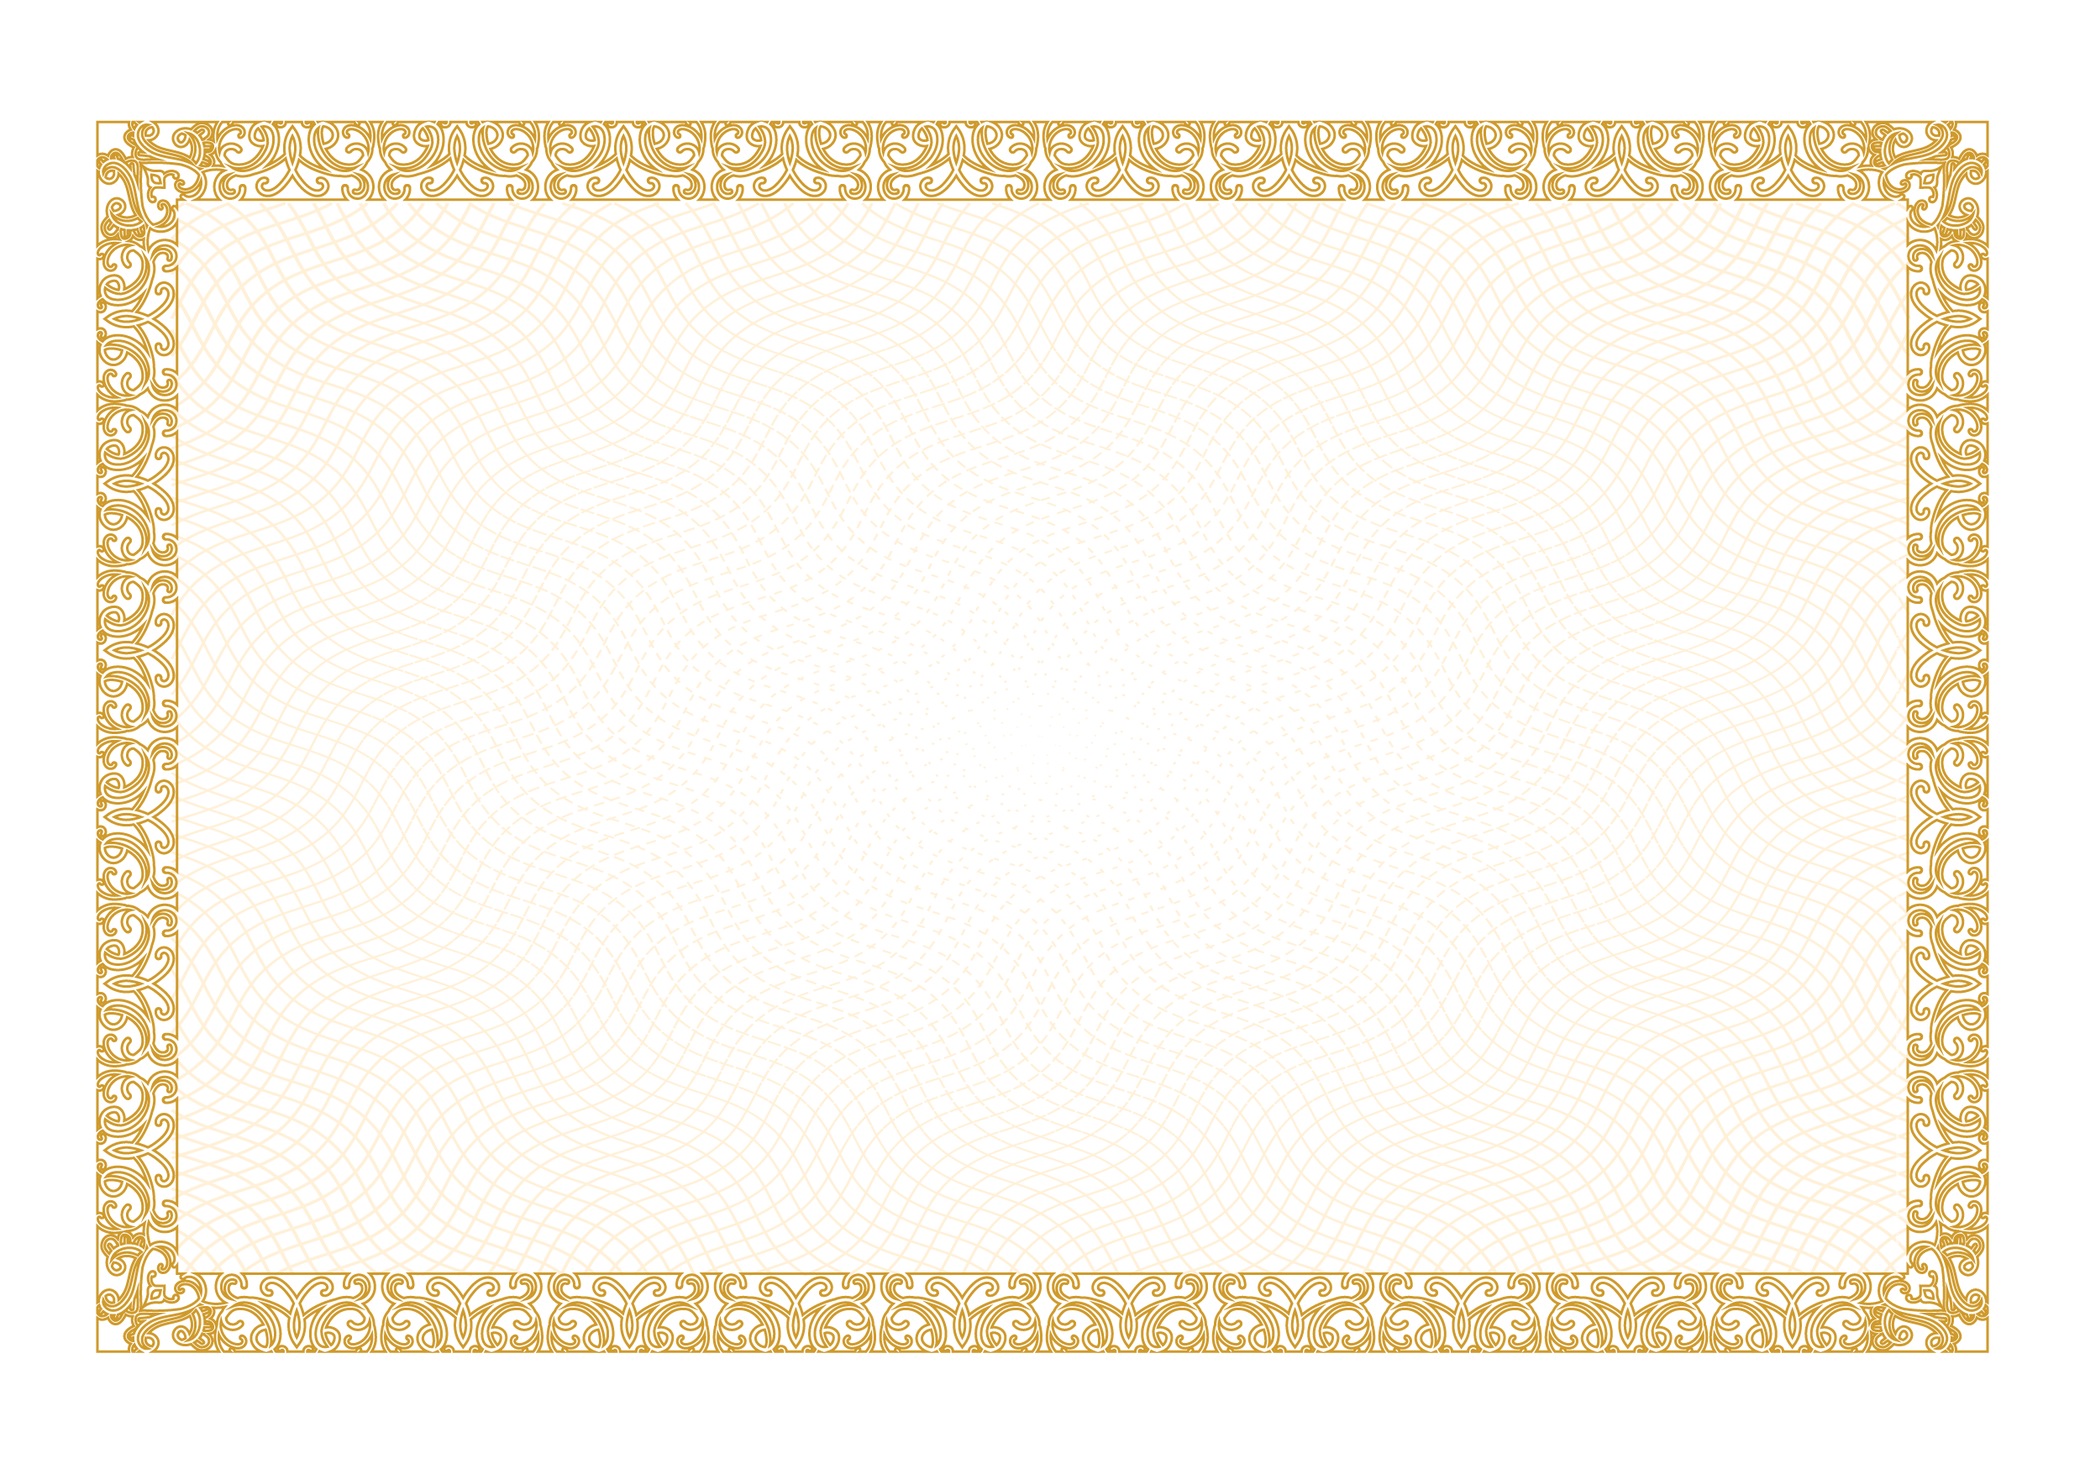
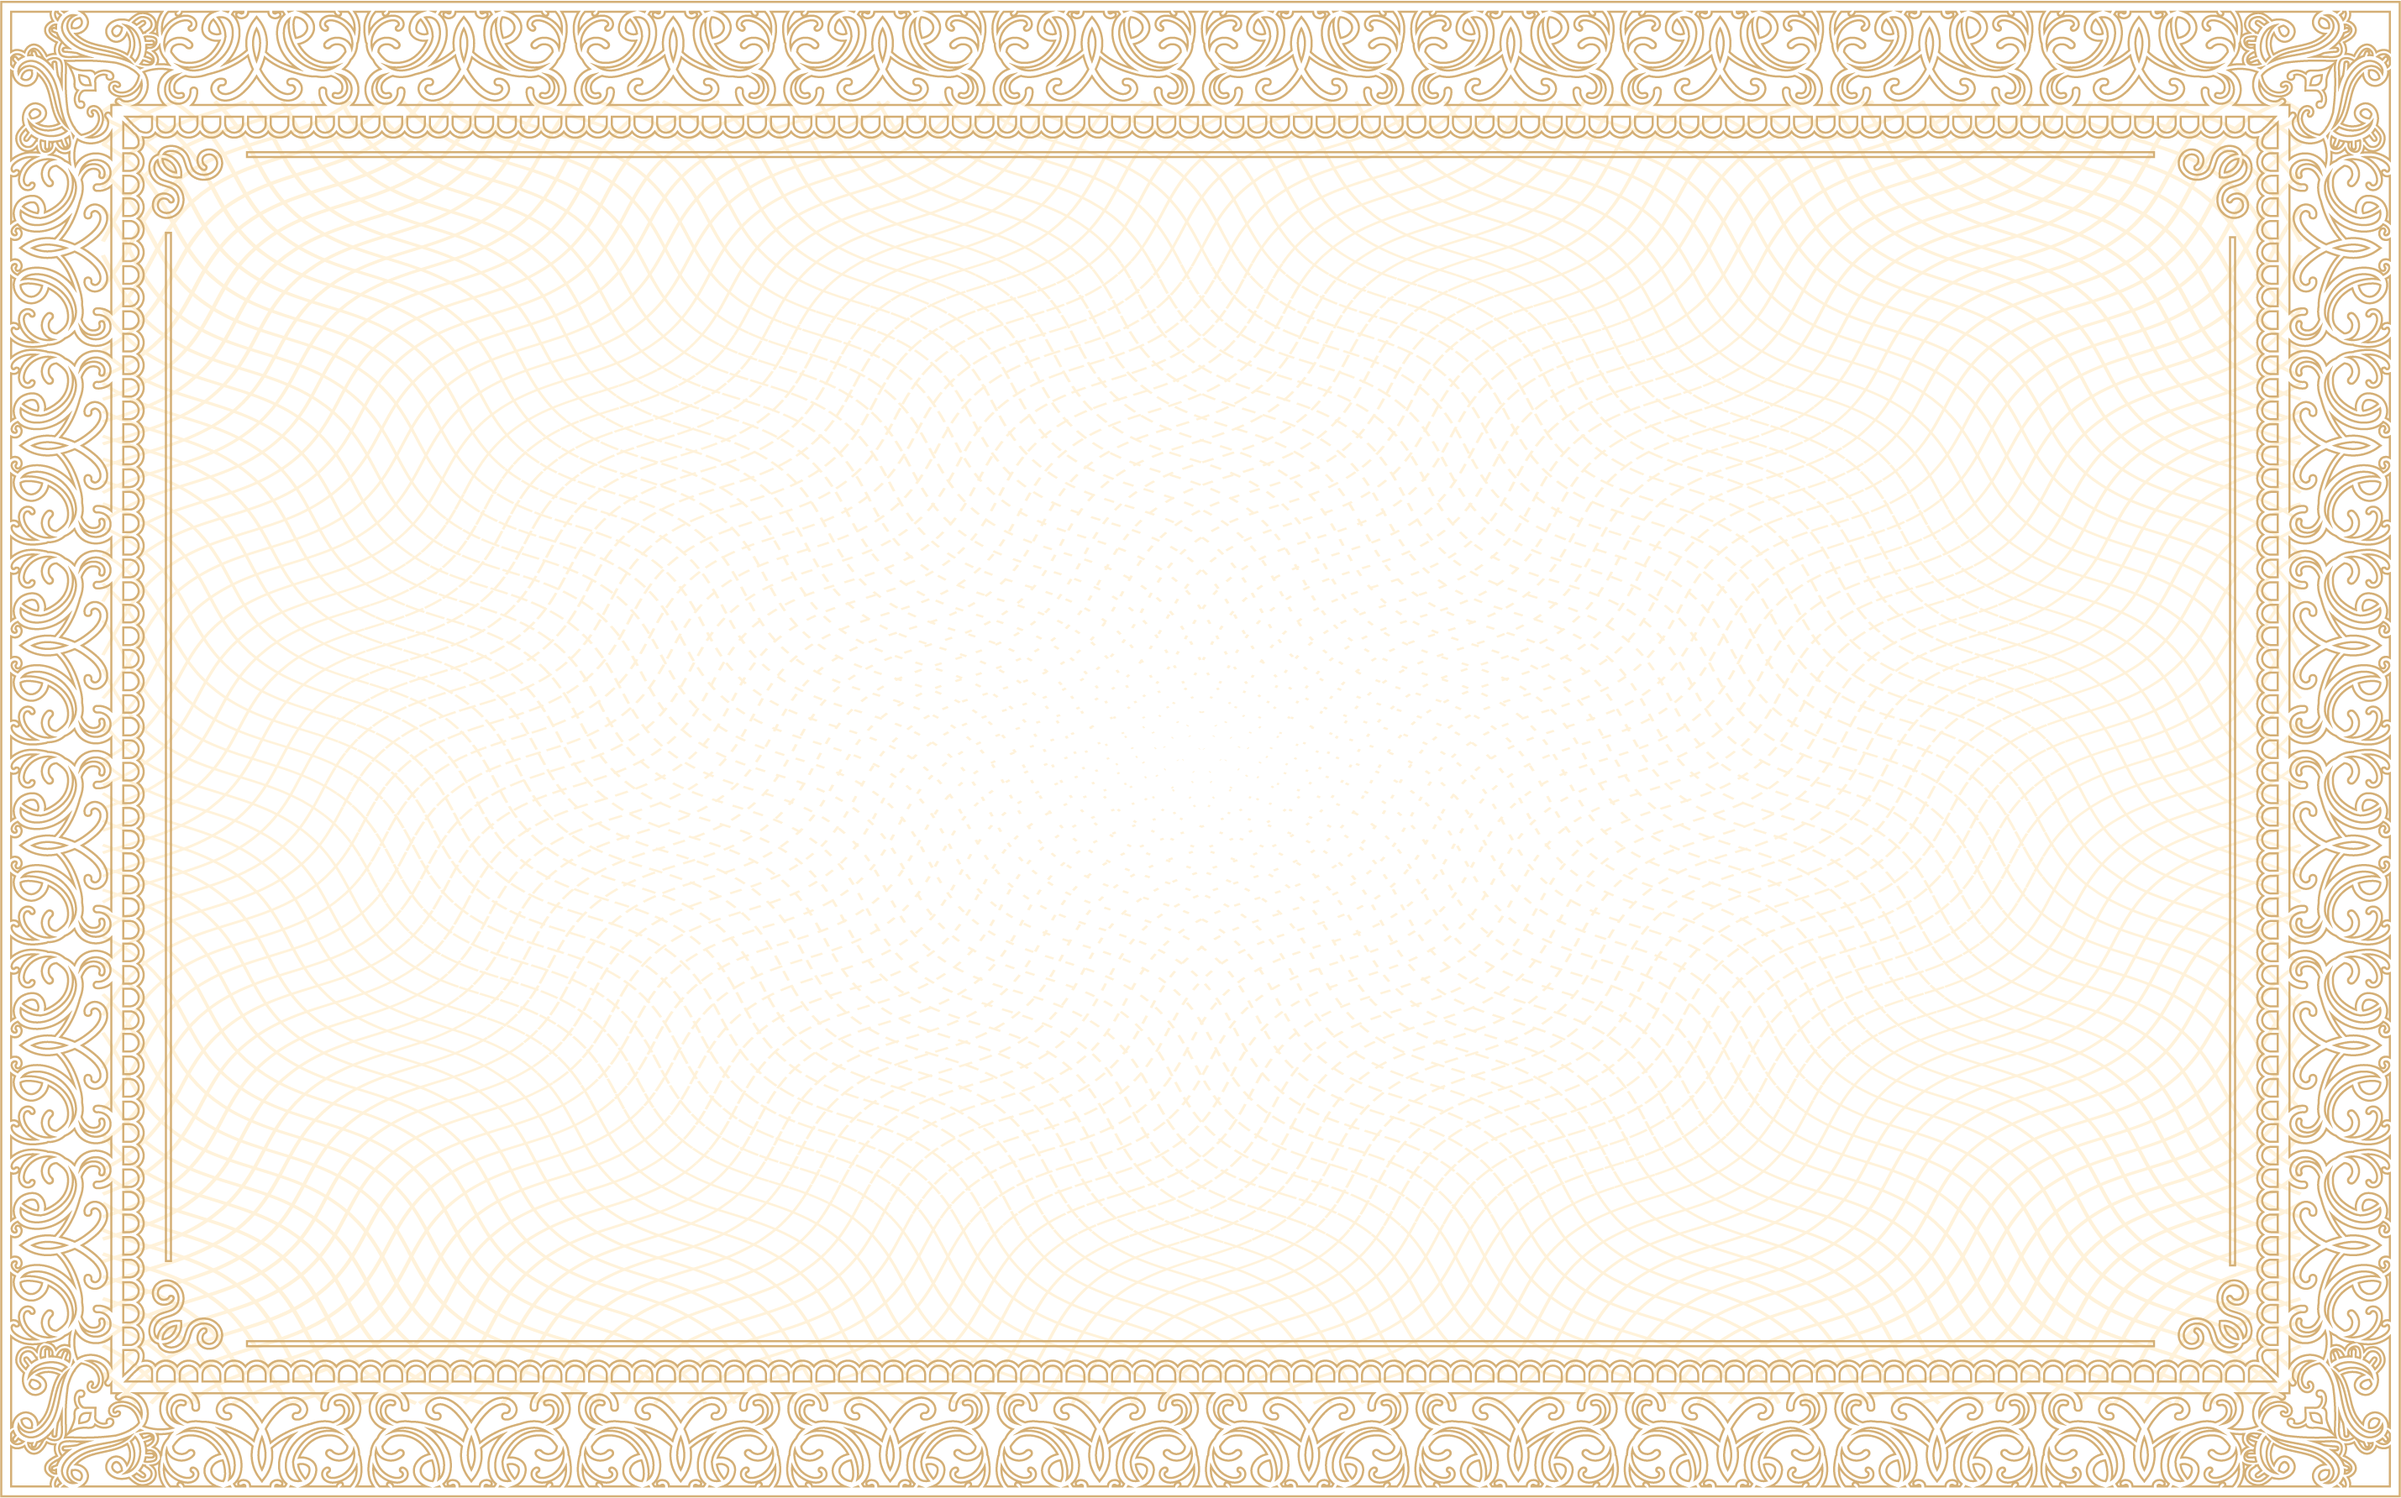
admit card and registration card update

diff --git a/assets/scss/admit__card.scss b/assets/scss/admit__card.scss
@@ -24,7 +24,7 @@ body {
     width: 100%;
     height: 100%;
     content: "";
-    background-image: url("../img/admit__card--updated-two.png");
+    background-image: url("../img/admit__card.png");
     background-repeat: no-repeat;
     background-size: cover;
     z-index: -1;
@@ -108,12 +108,12 @@ body {
       font-family: $font_avenir;
 
       .table__left {
-        font-size: 10.5px;
+        font-size: 12px;
         font-weight: 600;
         width: 68%;
         table-layout: auto !important;
         border-collapse: separate;
-        border-spacing: 10px 7px;
+        border-spacing: 10px 8px;
         margin-top: -22px;
 
         td.property {
@@ -121,6 +121,9 @@ body {
           white-space: nowrap;
           padding-right: 10px;
           font-weight: normal;
+        }
+        td.first__row {
+          padding-bottom: 10px;
         }
         td.value {
           border-bottom: 1.4px dotted $black_4;
@@ -163,7 +166,7 @@ body {
       .table__right {
         width: 32%;
         align-self: start;
-        font-size: 10.5px;
+        font-size: 12px;
         font-weight: 500;
         border-collapse: separate;
         border-spacing: 4px;
@@ -178,13 +181,13 @@ body {
           padding: 7px;
           background-color: #f8f4f9;
           border: 1px solid rgba(0, 0, 0, 0.4);
-          letter-spacing: 0.6px;
+          letter-spacing: 0.2px;
         }
       }
     }
 
     .footer {
-      margin-top: 38px;
+      margin-top: 50px;
       display: flex;
       justify-content: space-between;
       padding: 0 47px;
@@ -266,8 +269,5 @@ body {
     &::after {
       // display: none;
     }
-  }
-  .admit__card:last-child {
-    margin-top: -15px;
   }
 }

diff --git a/certificate/css/admit__card.css b/certificate/css/admit__card.css
@@ -238,7 +238,7 @@ body {
   width: 100%;
   height: 100%;
   content: "";
-  background-image: url("../img/admit__card--updated-two.png");
+  background-image: url("../img/admit__card.png");
   background-repeat: no-repeat;
   background-size: cover;
   z-index: -1;
@@ -316,12 +316,12 @@ body {
   font-family: "avenir";
 }
 .admit__card--content .table__area .table__left {
-  font-size: 10.5px;
+  font-size: 12px;
   font-weight: 600;
   width: 68%;
   table-layout: auto !important;
   border-collapse: separate;
-  border-spacing: 10px 7px;
+  border-spacing: 10px 8px;
   margin-top: -22px;
 }
 .admit__card--content .table__area .table__left td.property {
@@ -329,6 +329,9 @@ body {
   white-space: nowrap;
   padding-right: 10px;
   font-weight: normal;
+}
+.admit__card--content .table__area .table__left td.first__row {
+  padding-bottom: 10px;
 }
 .admit__card--content .table__area .table__left td.value {
   border-bottom: 1.4px dotted #615e58;
@@ -365,7 +368,7 @@ body {
 .admit__card--content .table__area .table__right {
   width: 32%;
   align-self: start;
-  font-size: 10.5px;
+  font-size: 12px;
   font-weight: 500;
   border-collapse: separate;
   border-spacing: 4px;
@@ -380,10 +383,10 @@ body {
   padding: 7px;
   background-color: #f8f4f9;
   border: 1px solid rgba(0, 0, 0, 0.4);
-  letter-spacing: 0.6px;
+  letter-spacing: 0.2px;
 }
 .admit__card--content .footer {
-  margin-top: 38px;
+  margin-top: 50px;
   display: flex;
   justify-content: space-between;
   padding: 0 47px;
@@ -451,8 +454,5 @@ body {
     height: 5.94in;
     margin: 0 auto;
     margin-top: 90px !important;
-  }
-  .admit__card:last-child {
-    margin-top: -15px;
   }
 }

diff --git a/assets/scss/registration__card.scss b/assets/scss/registration__card.scss
@@ -20,7 +20,7 @@ body {
     width: 100%;
     height: 100%;
     content: "";
-    background-image: url("../img/registration__card.png");
+    background-image: url("../img/registration__card--updated.png");
     background-size: cover;
     background-repeat: no-repeat;
     z-index: -1;
@@ -105,7 +105,7 @@ body {
       margin-top: 60px;
 
       .table__main {
-        font-size: 14px;
+        font-size: 16px;
         font-family: $font_avenir;
         border-collapse: separate;
         border-spacing: 0 20px;
@@ -174,7 +174,7 @@ body {
     }
 
     .footer {
-      margin-top: 155px;
+      margin-top: 140px;
       display: flex;
       justify-content: space-around;
       font-family: $font_avenir;

diff --git a/certificate/css/registration__card.css b/certificate/css/registration__card.css
@@ -235,7 +235,7 @@ body {
   width: 100%;
   height: 100%;
   content: "";
-  background-image: url("../img/registration__card.png");
+  background-image: url("../img/registration__card--updated.png");
   background-size: cover;
   background-repeat: no-repeat;
   z-index: -1;
@@ -314,7 +314,7 @@ body {
   margin-top: 60px;
 }
 .registration__content .registration__table .table__main {
-  font-size: 14px;
+  font-size: 16px;
   font-family: "avenir";
   border-collapse: separate;
   border-spacing: 0 20px;
@@ -373,7 +373,7 @@ body {
   width: 30px;
 }
 .registration__content .footer {
-  margin-top: 155px;
+  margin-top: 140px;
   display: flex;
   justify-content: space-around;
   font-family: "avenir";

diff --git a/certificate/admitcard.html b/certificate/admitcard.html
@@ -34,10 +34,11 @@
           <div class="table__area">
             <table class="table__left">
               <tr>
-                <td style="padding-bottom: 6px" class="property">
-                  Branch Code
-                </td>
-                <td style="border-bottom: 1px solid transparent" class="value">
+                <td class="property first__row">Branch Code</td>
+                <td
+                  style="border-bottom: 1px solid transparent"
+                  class="value first__row"
+                >
                   555656
                 </td>
               </tr>
